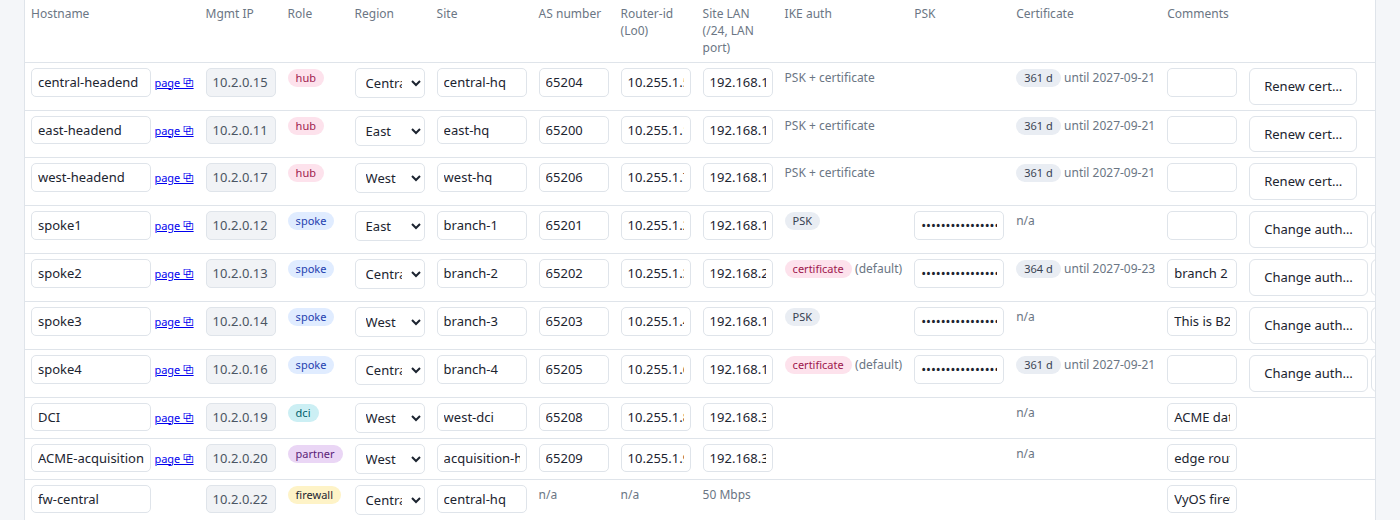
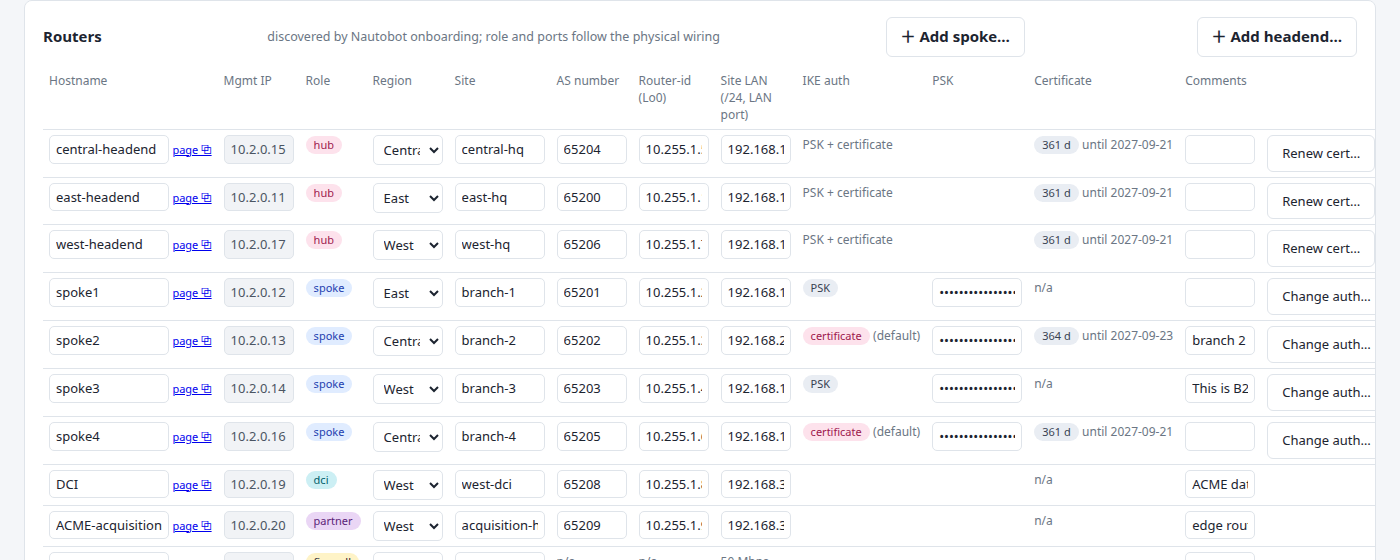
README screenshots: capture the new dialogs, reframe two shots, and put each image with the page it now shows
The captures were current but the set predated the last few changes, and two clips had drifted with the layout.

  - new: portal-add-headend.png (the headend dialog, every value suggested and the branches to link ticked) and
    portal-task-pick.png (the "which branch?" step the launcher shows for a per-router task, listing only the branches
    on a pre-shared key with when each was last rotated).
  - portal-run.png framed "Recent runs" and half the VPN form since the launcher pushed the page down; it now frames
    the Deployment status card itself, with its link to the job page.
  - portal-routers.png started below the card header, so the ＋ Add spoke / ＋ Add headend buttons were cut off.
  - the portal section opens on Home instead of repeating the Provision screenshot; the tunnel report and the LAN hosts
    images (and the paragraph describing the ping mesh) move to the Inventory section, where those cards now live.

Every image the README references exists, every capture the script takes is referenced, and nothing is shown twice
except portal-branches.png, which illustrates both the Inventory page and the DCI chain in it.

diff --git a/docs/screenshots.py b/docs/screenshots.py
@@ -22,16 +22,23 @@ with sync_playwright() as pw:
     page.evaluate("""fetch('/api/login', {method: 'POST', headers: {'content-type': 'application/json'}, body: JSON.stringify({username: 'admin', password: 'admin'})})""")   # the lab's default approver (webapp/users.example.json)
     time.sleep(1); page.reload(); page.wait_for_function("document.querySelector('#who b') !== null", timeout=30000); page.wait_for_selector("#devices tbody tr"); time.sleep(1.5)
     page.screenshot(path=str(OUT / "portal-provision.png"))
-    page.evaluate("document.getElementById('devices').scrollIntoView({block:'start'})"); time.sleep(0.6); page.screenshot(path=str(OUT / "portal-routers.png"), clip={"x": 0, "y": 0, "width": 1400, "height": 520})
+    page.evaluate("document.getElementById('devices').closest('.card').scrollIntoView({block:'start'})"); time.sleep(0.6); page.screenshot(path=str(OUT / "portal-routers.png"), clip={"x": 0, "y": 0, "width": 1400, "height": 560})
     page.click("#devices button.auth >> nth=0"); time.sleep(1.5); page.screenshot(path=str(OUT / "portal-change-auth.png"), clip={"x": 250, "y": 30, "width": 900, "height": 620}); page.click("#auth-cancel")
     page.click("#add-spoke"); time.sleep(1.2)
     page.screenshot(path=str(OUT / "portal-wizard-1.png"), clip={"x": 150, "y": 30, "width": 1100, "height": 760}); page.click("#wiz-next"); time.sleep(2.5); page.screenshot(path=str(OUT / "portal-wizard-2.png"), clip={"x": 150, "y": 30, "width": 1100, "height": 520})
     page.click("#wiz-next"); time.sleep(2.5); page.screenshot(path=str(OUT / "portal-wizard-3.png"), clip={"x": 150, "y": 30, "width": 1100, "height": 720})
     page.click("#wiz-cancel")
     page.click("#devices button.rm >> nth=-1"); time.sleep(1.5); page.screenshot(path=str(OUT / "portal-remove.png"), clip={"x": 250, "y": 30, "width": 900, "height": 560}); page.click("#rm-cancel")
+    # the task launcher: a new headend (every value suggested) and the "which router?" step of a per-branch task
+    page.evaluate("window.scrollTo(0, 0)"); page.click("#add-hub"); page.wait_for_function("document.getElementById('hub-name').value !== ''", timeout=60000); time.sleep(0.8)
+    page.screenshot(path=str(OUT / "portal-add-headend.png"), clip={"x": 130, "y": 20, "width": 1140, "height": 660}); page.click("#hub-cancel")
+    page.evaluate("pickRouter('rotate')"); time.sleep(0.8)
+    page.screenshot(path=str(OUT / "portal-task-pick.png"), clip={"x": 260, "y": 20, "width": 880, "height": 380}); page.click("#pick-cancel")
     page.evaluate("document.getElementById('runcard').scrollIntoView({block:'start'})")
     runs = requests.get(f"{PORTAL}/api/runs").json(); ok = next((r for r in runs if r["status"] == "success" and r["mode"] in ("spoke", "hub")), runs[0])
-    page.evaluate("id => watchInline(id)", ok["id"]); time.sleep(3); page.screenshot(path=str(OUT / "portal-run.png"), clip={"x": 760, "y": 0, "width": 640, "height": 900})
+    page.evaluate("id => watchInline(id)", ok["id"]); time.sleep(3)
+    page.evaluate("document.getElementById('runcard').scrollIntoView({block:'start'})"); time.sleep(0.8)
+    page.screenshot(path=str(OUT / "portal-run.png"), clip={"x": 0, "y": 0, "width": 1400, "height": 620})
     # Jobs: the list of everything the portal has run, and one job's own page (steps, live log, test report)
     page.goto(f"{PORTAL}/#jobs"); page.wait_for_function("document.querySelectorAll('#jobs-table tbody tr').length > 0", timeout=60000); time.sleep(1.0)
     page.screenshot(path=str(OUT / "portal-jobs.png"), clip={"x": 0, "y": 0, "width": 1400, "height": 820})

diff --git a/README.md b/README.md
@@ -89,11 +89,12 @@ shows up in VictoriaLogs and through the portal.
 
 ## The VPN provisioning portal
 
-One form, one button, a source of truth kept honest. Every change goes
+Pick what you want to do, and watch it happen. Every change goes
 **intent → Nautobot seed → NAC data rendered *from Nautobot* → Terraform plan/apply → Golden Config → Robot tests**,
-and the portal streams each step's status and log.
+and the portal streams each step's status and log on the job's own page. It opens on **Home**, the live picture of the
+service:
 
-![Provision page](docs/screenshots/portal-provision.png)
+![Home](docs/screenshots/portal-inventory.png)
 
 ### Provision page
 The page opens on **What do you want to do?** — one card per thing this portal can do, grouped by what it is for, each
@@ -111,6 +112,7 @@ no key to rotate`).
 | **Configuration** | Check for drift (Compliance) · See what is running (Jobs) |
 
 ![What do you want to do?](docs/screenshots/portal-provision.png)
+![Which branch?](docs/screenshots/portal-task-pick.png)
 
 Underneath, the model itself is still a form — that is what a deploy pushes:
 - **Site / Routers / VPN service / Crypto profile** — the whole intent is a form: site metadata, every
@@ -189,6 +191,8 @@ intent, then runs the pipeline — **headends and the new spoke are configured i
   city, management IP, AS, router-id, site LAN — and lists the branches to link it to, each ticked by default. The run
   re-defines those spokes for their new WAN port, brings the headend up, and applies both sides
   (`POST /api/runs {"mode":"hub"}`).
+
+![Add a headend](docs/screenshots/portal-add-headend.png)
 - **Remove…** on a spoke shows exactly what is released and what every headend loses, then powers
   off, cleans Nautobot, drops the router from the intent / `lab.conf` / Terraform state, destroys the
   headend-side tunnel and BGP neighbour, deletes the VM, and re-tests.
@@ -205,25 +209,14 @@ tunnel commits `capacity.bandwidth_per_tunnel_mbps` = 8 Mbps) — plus the live 
 headend (`show platform resources`, against the platform's warning threshold; data-plane QFP CPU and DRAM
 alongside) — with an **aggregate** bar showing the tightest of the three and the effective free slots (the
 model constraints set the slots, the wizard and deploy validation check them; a headend at its CPU threshold
-has none), and a
-per-tunnel report joining the Nautobot model with live IKEv2 / VTI / eBGP / ESP state collected from the
-headends; **Export CSV** (tunnels plus a headend-capacity block).
+has none). The per-tunnel report and the LAN hosts moved to the **Inventory** tab.
 
-![Inventory](docs/screenshots/portal-inventory.png)
 ![Topology](docs/screenshots/portal-topology.png)
 
 The topology is drawn on a map of the USA — headends in New York, Chicago and Los Angeles, branches in Boston,
 Dallas, Seattle, Denver and Phoenix (Nautobot Location coordinates, from `lab-intent.json`) — with a spoke filter and a
 schematic view as the alternative.
 ![Headend capacity](docs/screenshots/portal-capacity.png)
-![Tunnel report](docs/screenshots/portal-tunnels.png)
-
-The **LAN hosts** card lists the Alpine VM behind every router; **Ping mesh** runs the full host-to-host matrix over the tunnels,
-plus two more columns per host — its **own router** (the LAN gateway) and the **internet** (1.1.1.1 through its headend's breakout) —
-every check green with its round-trip time, red when it fails; **▶ Live** keeps probing every check every 5 seconds with the
-latencies updating in place (■ Stop ends it; the SSH sessions to the hosts stay open between probes).
-
-![LAN hosts and the ping mesh](docs/screenshots/portal-hosts.png)
 
 ### Inventory tab and the router page
 Every branch is a **customer** of **ACME Networks**, the provider that sells the VPN service and owns the headends and their
@@ -250,9 +243,15 @@ diff, the backup history from Gitea with per-commit diffs. The whole portal has 
 follows the OS setting until chosen); the code panes have their own on top.
 
 Below the table, the same page carries the **per-tunnel report** (model from Nautobot joined with live IKEv2 / VTI / eBGP /
-ESP state, with CSV export) and the **LAN hosts** with their **ping mesh** — both were on the landing page before.
+ESP state, with CSV export) and the **LAN hosts** card — the Alpine VM behind every router, where **Ping mesh** runs the full
+host-to-host matrix over the tunnels plus two more columns per host, its **own router** (the LAN gateway) and the **internet**
+(1.1.1.1 through its headend's breakout): every check green with its round-trip time, red when it fails. **▶ Live** keeps
+probing every check every 5 seconds with the latencies updating in place (■ Stop ends it; the SSH sessions to the hosts stay
+open between probes). Both cards were on the landing page before.
 
 ![Inventory](docs/screenshots/portal-branches.png)
+![Tunnel report](docs/screenshots/portal-tunnels.png)
+![LAN hosts and the ping mesh](docs/screenshots/portal-hosts.png)
 ![Router page](docs/screenshots/portal-branch.png)
 ![Router configuration, dark mode](docs/screenshots/portal-branch-config.png)
 
@@ -524,7 +523,7 @@ The host's resolver comes from the intent too (`dns_client` on the host; cloud-i
 hash of the seed so a changed resolver is actually applied on the next boot).
 
 ![Topology with the DCI chain](docs/screenshots/portal-topology-schematic.png)
-![Branches with the DCI chain](docs/screenshots/portal-branches.png)
+![The DCI chain in the Inventory](docs/screenshots/portal-branches.png)
 
 ## Network-as-Code
 
